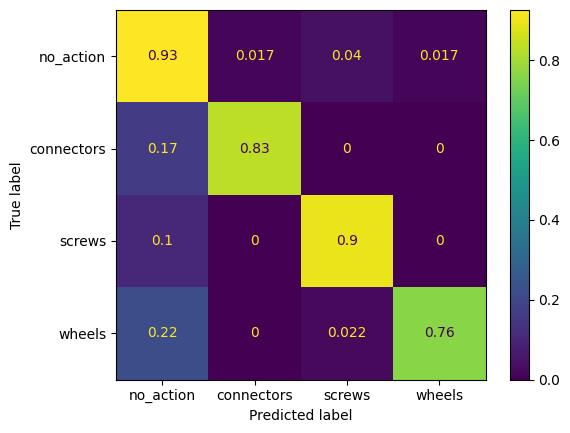
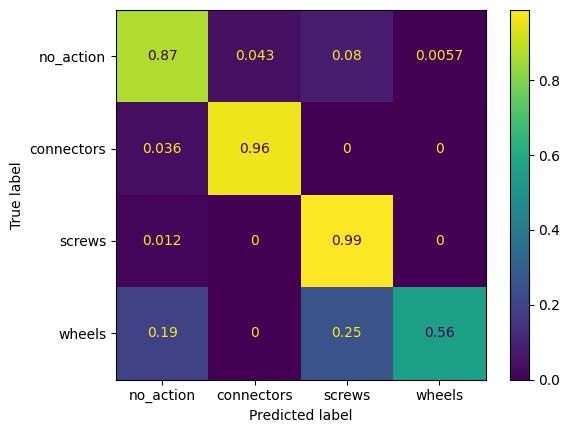
change train and test to landmarks and find bugs for mixed use of landmark and landmark_world

diff --git a/traj_intention/Dataset.py b/traj_intention/Dataset.py
@@ -3,13 +3,39 @@ from torch.utils.data import Dataset, DataLoader
 import json
 import numpy as np
 import argparse
+import pickle
 from pathlib import Path
+import os,sys
+sys.path.append('./depthai_blazepose')
+import mediapipe_utils as mpu
 FILE_DIR = Path(__file__).resolve().parent
 import pdb
 
 INTENTION_LIST = {"no_action":0, "get_connectors":1,"get_screws":2,"get_wheels":3}
+
+def qrot(q, v):
+    """
+    Rotate vector(s) v about the rotation described by 四元数quaternion(s) q.
+    Expects a tensor of shape (*, 4) for q and a tensor of shape (*, 3) for v,
+    where * denotes any number of dimensions.
+    Returns a tensor of shape (*, 3).
+    """
+    assert q.shape[-1] == 4
+    assert v.shape[-1] == 3
+    assert q.shape[:-1] == v.shape[:-1]
+
+    qvec = q[..., 1:]
+    uv = np.cross(qvec, v, len(q.shape) - 1)
+    uuv = np.cross(qvec, uv, len(q.shape) - 1)
+    return (v + 2 * (q[..., :1] * uv + uuv))
+
+
+def camera_to_world(X, R= np.array([0.14070565, -0.15007018, -0.7552408, 0.62232804], dtype=np.float32),\
+                     t=0):
+    return qrot(np.tile(R, (*X.shape[:-1], 1)), X) + t
+
 class MyDataset(Dataset):
-    def __init__(self, json_file, root_dir, args,dataset_type="train",transform=None,test_whole=True):
+    def __init__(self, json_file, root_dir, args,dataset_type="train",transform=None,test_whole=True,input_type="pkl"):
         self.json_file = json_file
         self.transform = transform
         self.root_dir = root_dir
@@ -20,6 +46,7 @@ class MyDataset(Dataset):
         self.test_whole = test_whole
         self.half_body = args.half_body
         self.intention_list = INTENTION_LIST
+        self.input_type = input_type
         self.data,self.weights = self.process_json()
 
     def process_json(self):
@@ -35,12 +62,44 @@ class MyDataset(Dataset):
                 if not self.test_whole and 'build_cars' in task:
                     continue
                 points = intention_tasks[task]
-                npy_file = np.load(f'{self.root_dir}/{task[:-3]}/{task}.npy')
-                # pdb.set_trace()
-                if self.type == "test_self":
-                    npy_file = np.concatenate((npy_file[:,11:25,:],npy_file[:,0:1,:]),axis=1)
-                if self.half_body:
-                    npy_file = np.concatenate((npy_file[:,1::2,:],npy_file[:,0:1,:],npy_file[:,-1:,:],npy_file[:,-3:-2,:]),axis=1)
+                if self.input_type == "npy":
+                    npy_file = np.load(f'{self.root_dir}/{task[:-3]}/{task}.npy')
+                    # pdb.set_trace()
+                    if self.type == "test_self":
+                        npy_file = np.concatenate((npy_file[:,11:25,:],npy_file[:,0:1,:]),axis=1)
+                    if self.half_body:
+                        npy_file = np.concatenate((npy_file[:,1::2,:],npy_file[:,0:1,:],npy_file[:,-1:,:],npy_file[:,-3:-2,:]),axis=1)
+                elif self.input_type == "pkl":
+                    pic = open(f'{self.root_dir}/{task[:-3]}/{task}.pkl','rb')
+                    pkl_file = pickle.load(pic)
+                    poses = []
+                    for body in pkl_file:
+                        poses.append(body.landmarks)
+                    poses = np.array(poses)
+                    # poses_norm = 2*(poses-poses.min())/(poses.max()-poses.min())
+                    # poses_world = camera_to_world(poses_norm)
+                    # poses_world[:, :, 2] -= np.min(poses_world[:, :, 2])
+                    if self.type == "test_self":
+                        # npy_file = np.concatenate((poses_world[:,11:25,:],poses_world[:,0:1,:]),axis=1)
+                        npy_file = np.concatenate((poses[:,11:25,:],poses[:,0:1,:]),axis=1)
+                        npy_file = 2*(npy_file-npy_file.min())/(npy_file.max()-npy_file.min())
+                        npy_file = camera_to_world(npy_file)
+                        npy_file[:, :, 2] -= np.min(npy_file[:, :, 2]) 
+                    elif self.type == "test_others":
+                        # npy_file = poses_world
+                        # npy_file = np.concatenate((poses_world[:,11:25,:],poses_world[:,0:1,:]),axis=1)
+                        # npy_file = np.concatenate((poses[:,11:25,:],poses[:,0:1,:]),axis=1)
+                        npy_file = poses
+                        # npy_file = np.concatenate((poses[:,11:25,:],poses[:,0:1,:]),axis=1)
+                        npy_file = 2*(npy_file-npy_file.min())/(npy_file.max()-npy_file.min())
+                        npy_file = camera_to_world(npy_file)
+                        npy_file[:, :, 2] -= np.min(npy_file[:, :, 2])
+                    elif self.type == "train":
+                        npy_file = np.concatenate((poses[:,11:25,:],poses[:,0:1,:]),axis=1)
+                        npy_file = 2*(npy_file-npy_file.min())/(npy_file.max()-npy_file.min())
+                        npy_file = camera_to_world(npy_file)
+                        npy_file[:, :, 2] -= np.min(npy_file[:, :, 2]) 
+                    # pdb.set_trace()
                 assert len(points['start']) == len(points['end']), f"The number of start points and end points doesn't match in {task}!"
                 task_data = []
                 for i in range(len(points['end'])):

diff --git a/traj_intention/test.py b/traj_intention/test.py
@@ -41,24 +41,26 @@ if __name__ == '__main__':
                         help='whether to extract only half body keypoints') 
     parser.add_argument('--test_whole', action="store_true",
                         help='whether to test on build_cars tasks') 
+    parser.add_argument('--restrict', type=str,default="ood",
+                        help='four options:[no,working_area,ood,all]')
     parser.add_argument('--test_type',type=str,default="test_self",
                         help='two options:[test_self,test_others]')
-    parser.add_argument('--restrict', type=str,default="ood",
-                        help='four options:[no,working_area,ood,all]') 
+    parser.add_argument('--input_type', type=str,default="pkl",
+                        help='two options:[pkl,npy]') 
     parser.add_argument('--epochs', type=int, default=40) 
     args = parser.parse_args()
 
     if args.half_body:
         args.channels = 10*3
-    model = Model(args)
+    # model = Model(args)
     # if not args.test_whole:
     #     checkpoint = torch.load(f'{FILE_DIR}/checkpoints/seq{args.seq_len}_pred{args.pred_len}_epoch{args.epochs}_not_whole.pth')
     # else:
-    checkpoint = torch.load(f'{FILE_DIR}/checkpoints/seq{args.seq_len}_pred{args.pred_len}_epoch{args.epochs}_whole_mask_peiqi_abu(old).pth')
-    model.load_state_dict(checkpoint)
-    model.eval()
-
-    dataset = MyDataset(JSON_FILE,ROOT_DIR,args,dataset_type=args.test_type,test_whole=args.test_whole)
+    # checkpoint = torch.load(f'{FILE_DIR}/checkpoints/seq{args.seq_len}_pred{args.pred_len}_epoch{args.epochs}_whole_mask_peiqi_abu(old).pth')
+    # model.load_state_dict(checkpoint)
+    # model.eval()
+    ckpt_path = f'{FILE_DIR}/checkpoints/seq{args.seq_len}_pred{args.pred_len}_epoch{args.epochs}_whole_{args.input_type}.pth'
+    dataset = MyDataset(JSON_FILE,ROOT_DIR,args,dataset_type=args.test_type,test_whole=args.test_whole,input_type=args.input_type)
     dataloader = DataLoader(dataset, batch_size=1, shuffle=True)
     # pdb.set_trace()
     count = 0
@@ -66,7 +68,7 @@ if __name__ == '__main__':
     error = [0]*args.class_num
     intention_list = []
     labels_list = []
-    predictor = IntentionPredictor()
+    predictor = IntentionPredictor(ckpt_path=ckpt_path)
     for batch in tqdm(dataloader):
         inputs,target_traj,labels = batch # inputs.shape:[batch_size,seq_len,15*3]
         # pred_traj,pred_intention = model(inputs)

diff --git a/traj_intention/train.py b/traj_intention/train.py
@@ -36,7 +36,9 @@ if __name__ == '__main__':
                         help='whether to extract only half body keypoints') 
     parser.add_argument('--batch_size', type=int, default=2) 
     parser.add_argument('--test_whole', action="store_true",
-                        help='whether to test on build_cars tasks') 
+                        help='whether to test on build_cars tasks')
+    parser.add_argument('--input_type', type=str,default="pkl",
+                        help='two options:[pkl,npy]')
     parser.add_argument('--epochs', type=int, default=40) 
     args = parser.parse_args()
 
@@ -45,7 +47,7 @@ if __name__ == '__main__':
     net = Model(args)
 
     batch_size = args.batch_size
-    dataset = MyDataset(JSON_FILE,ROOT_DIR,args,type="train",test_whole=args.test_whole)
+    dataset = MyDataset(JSON_FILE,ROOT_DIR,args,dataset_type="train",test_whole=args.test_whole,input_type=args.input_type)
     dataloader = DataLoader(dataset, batch_size=batch_size,shuffle=True)
 
     class_criterion = torch.nn.CrossEntropyLoss(weight=dataset.weights)
@@ -69,8 +71,8 @@ if __name__ == '__main__':
                 
         print(f'Epoch {epoch + 1}, Loss: {running_loss / count}')
     if args.test_whole:
-        torch.save(net.state_dict(), f'{FILE_DIR}/checkpoints/seq{args.seq_len}_pred{args.pred_len}_epoch{epochs}_whole.pth')
+        torch.save(net.state_dict(), f'{FILE_DIR}/checkpoints/seq{args.seq_len}_pred{args.pred_len}_epoch{epochs}_whole_{args.input_type}.pth')
     else:
-        torch.save(net.state_dict(), f'{FILE_DIR}/checkpoints/seq{args.seq_len}_pred{args.pred_len}_epoch{epochs}_not_whole.pth')
+        torch.save(net.state_dict(), f'{FILE_DIR}/checkpoints/seq{args.seq_len}_pred{args.pred_len}_epoch{epochs}_not_whole_{args.input_type}.pth')
     
 

diff --git a/run_blazepose_outside.py b/run_blazepose_outside.py
@@ -278,7 +278,8 @@ def intention_sender(args):
                         righthand = landmarks[16]
                         rightelbow = landmarks[14]
                         rightshoulder = landmarks[12]
-                        upperbody = np.concatenate((landmarks[11:25,:],landmarks[0:1,:]),axis=0)
+                        # upperbody = np.concatenate((landmarks[11:25,:],landmarks[0:1,:]),axis=0)
+                        upperbody = body.landmarks
                         if len(traj_queue) < frame_size:
                             traj_queue.append(upperbody)
                         else:
